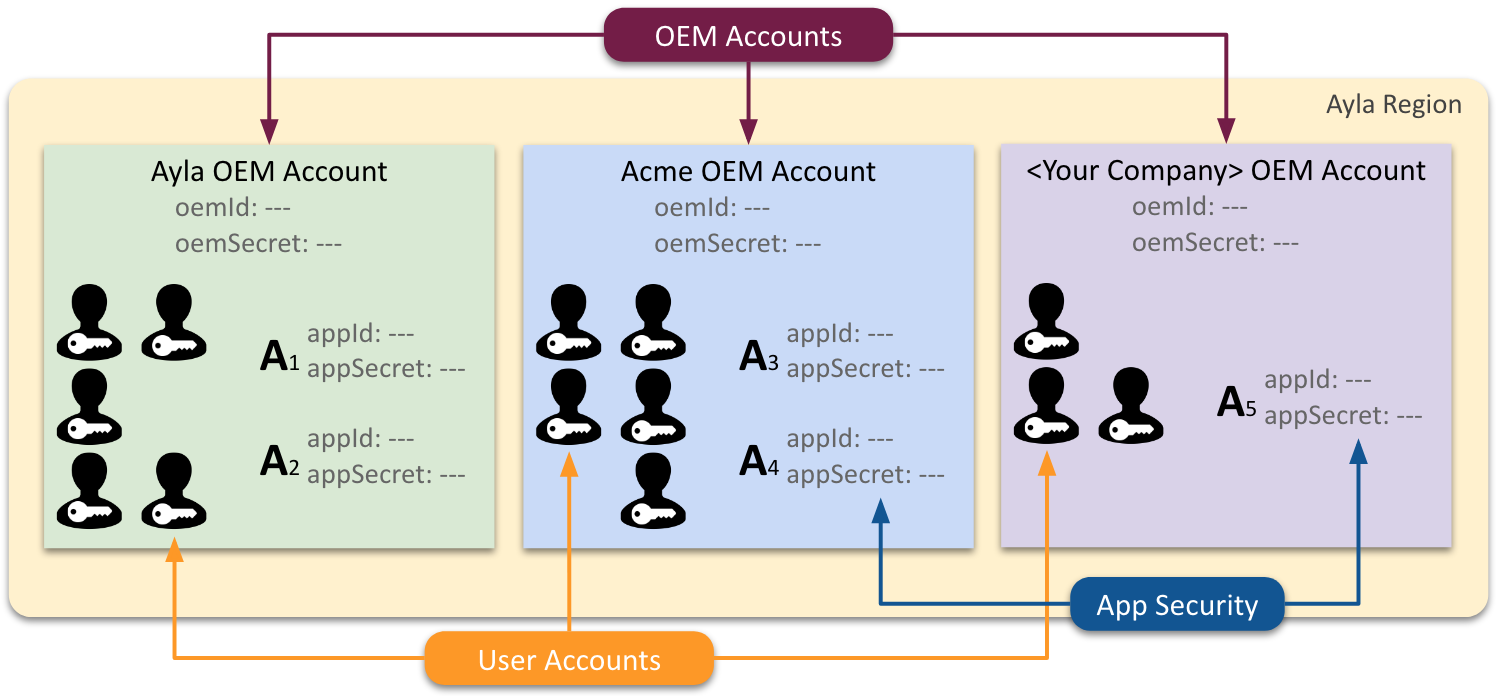
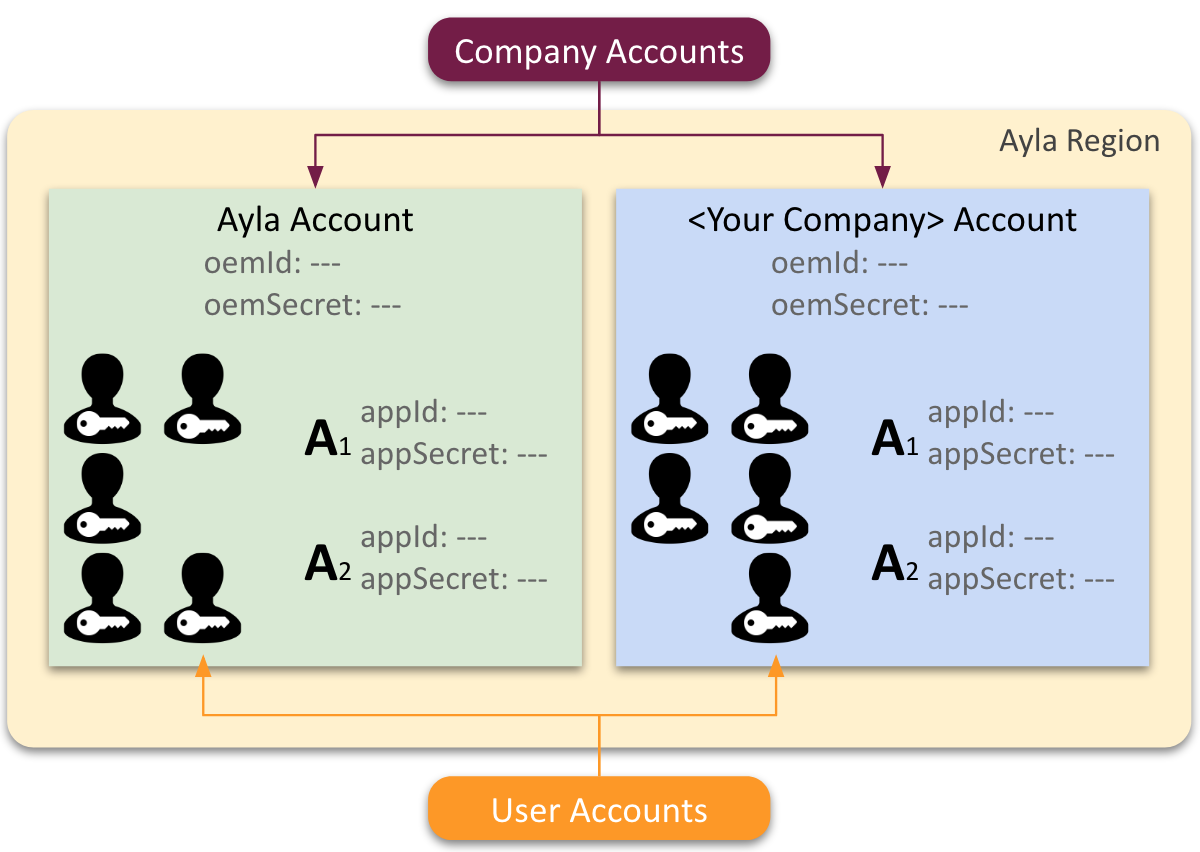
Updated readme and Ayla Accounts image.

diff --git a/src/getting-started/ayla-accounts/index.md b/src/getting-started/ayla-accounts/index.md
@@ -5,10 +5,12 @@ layout: page-full-width.html
 
 The term "Ayla Account" can refer to a company account or a user account.
 
-<img src="ayla-accounts.png" width="700">
+<img src="ayla-accounts.png" width="500">
 
-### Ayla Company Account
+### Ayla Account
 
-The Ayla Company Account is special. Anyone can create a user account (with limited access rights) in the Ayla Company Account, via the [Ayla Developer Portal](https://docs.aylanetworks.com/apps/ayla-developer-portal/) or the Aura Mobile App, for the purpose of experimenting with the [Ayla Developer Kit](../ayla-developer-kit).
+The Ayla Account is special. Anyone can create a user account in the Ayla Account via the [Ayla Developer Portal](https://docs.aylanetworks.com/apps/ayla-developer-portal/) or the Aura Mobile App for the purpose of experimenting with the [Ayla Developer Kit](../ayla-developer-kit).
 
 ### &lt;Your Company&gt; Account
+
+A company account provides full access to Ayla tools and features. 

diff --git a/README.md b/README.md
@@ -2,4 +2,4 @@ Website: [Ayla Documentation](https://docs.aylanetworks.com)
 
 Workflow: [Git Feature Branch Workflow](https://www.atlassian.com/git/tutorials/comparing-workflows/feature-branch-workflow)
 
-Email/text Matt or Vinay with questions, comment, etc.
+Send feedback to Matt Hagen or Vinay Malekal via email or text.
